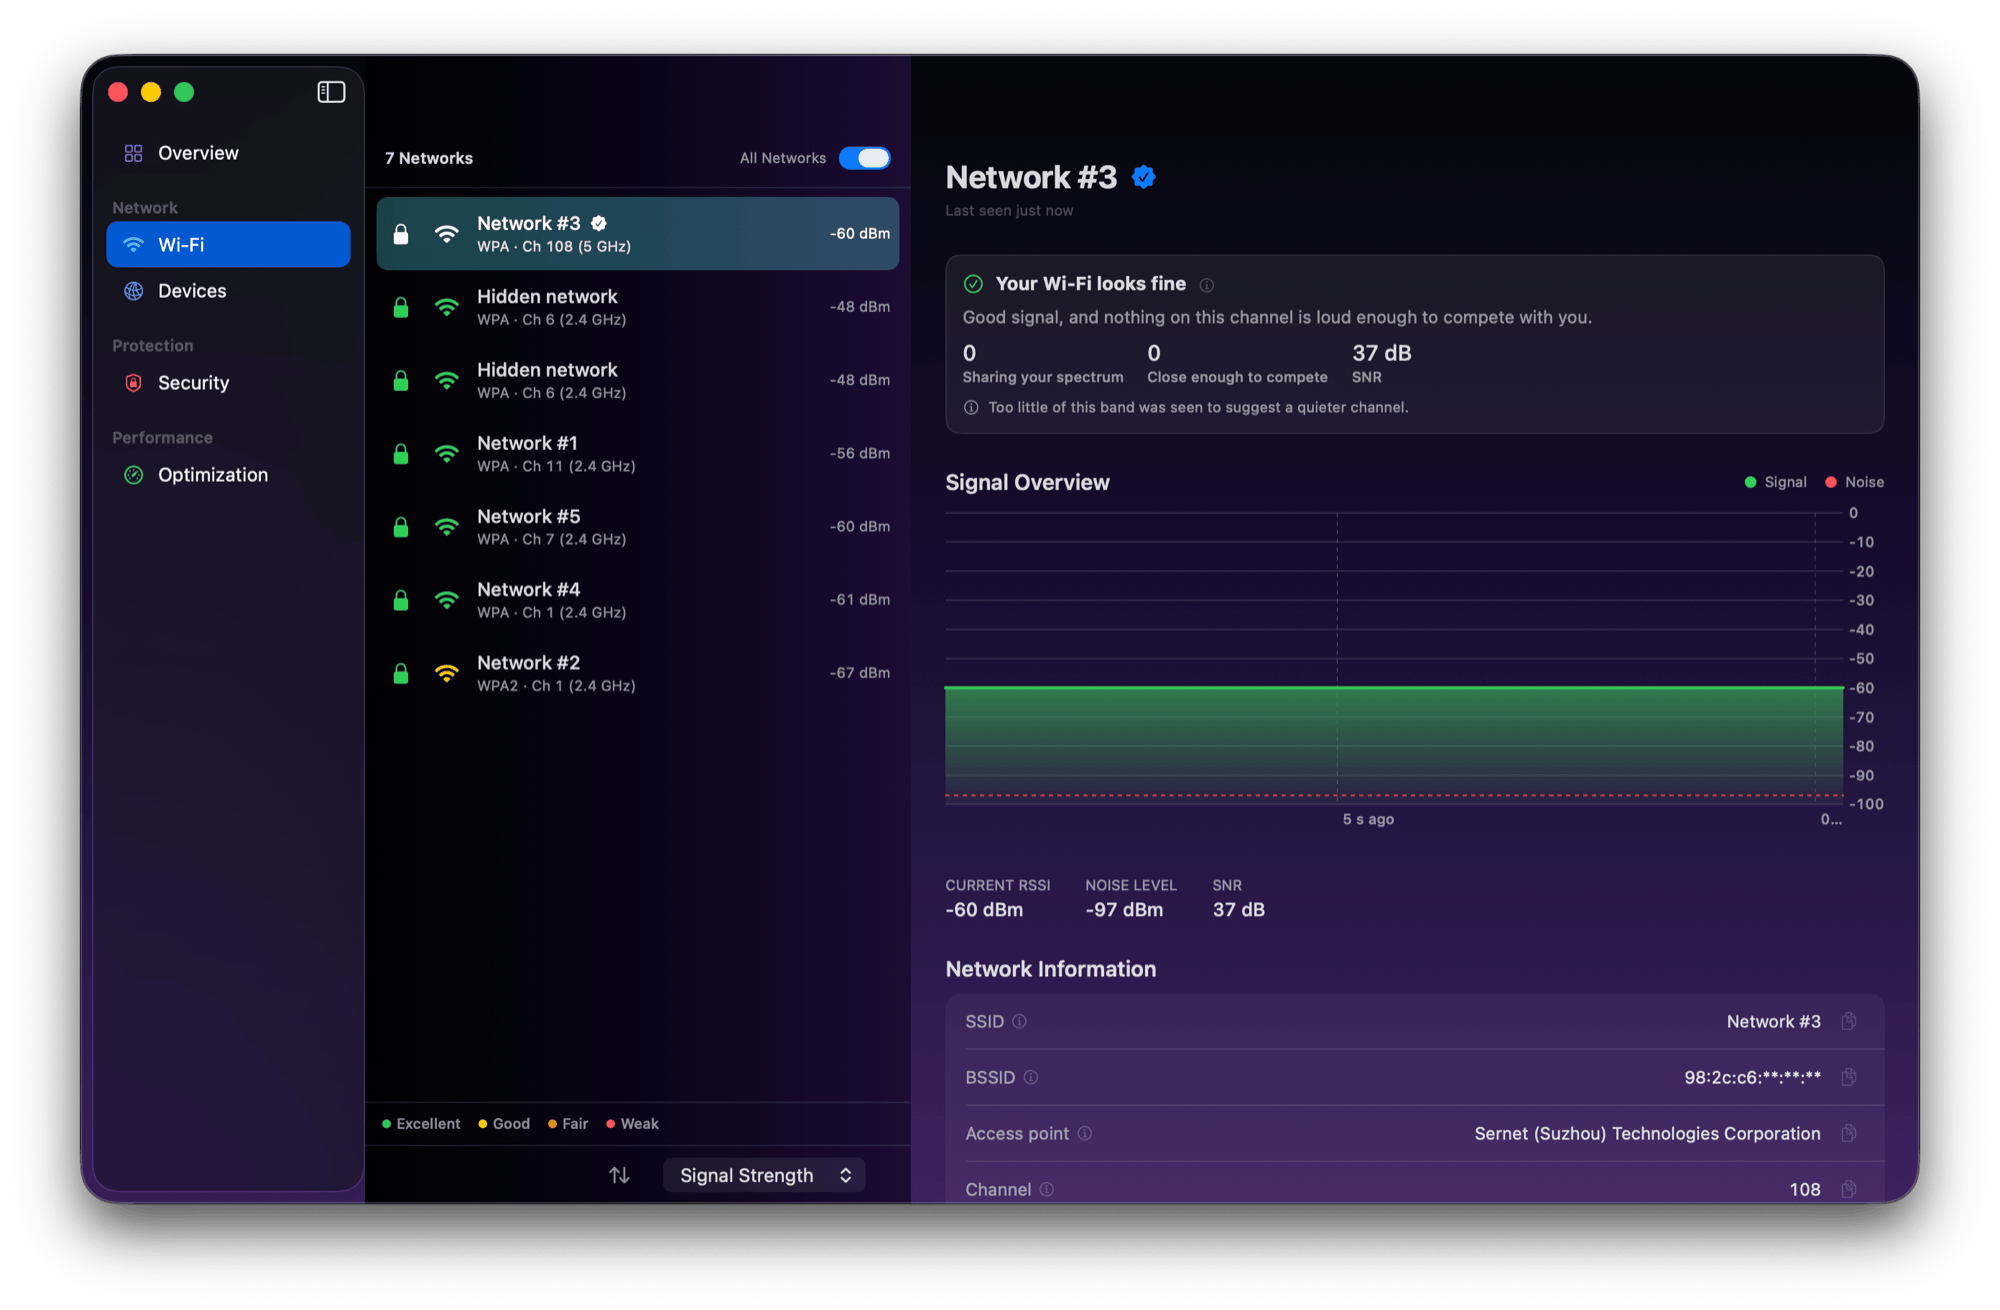
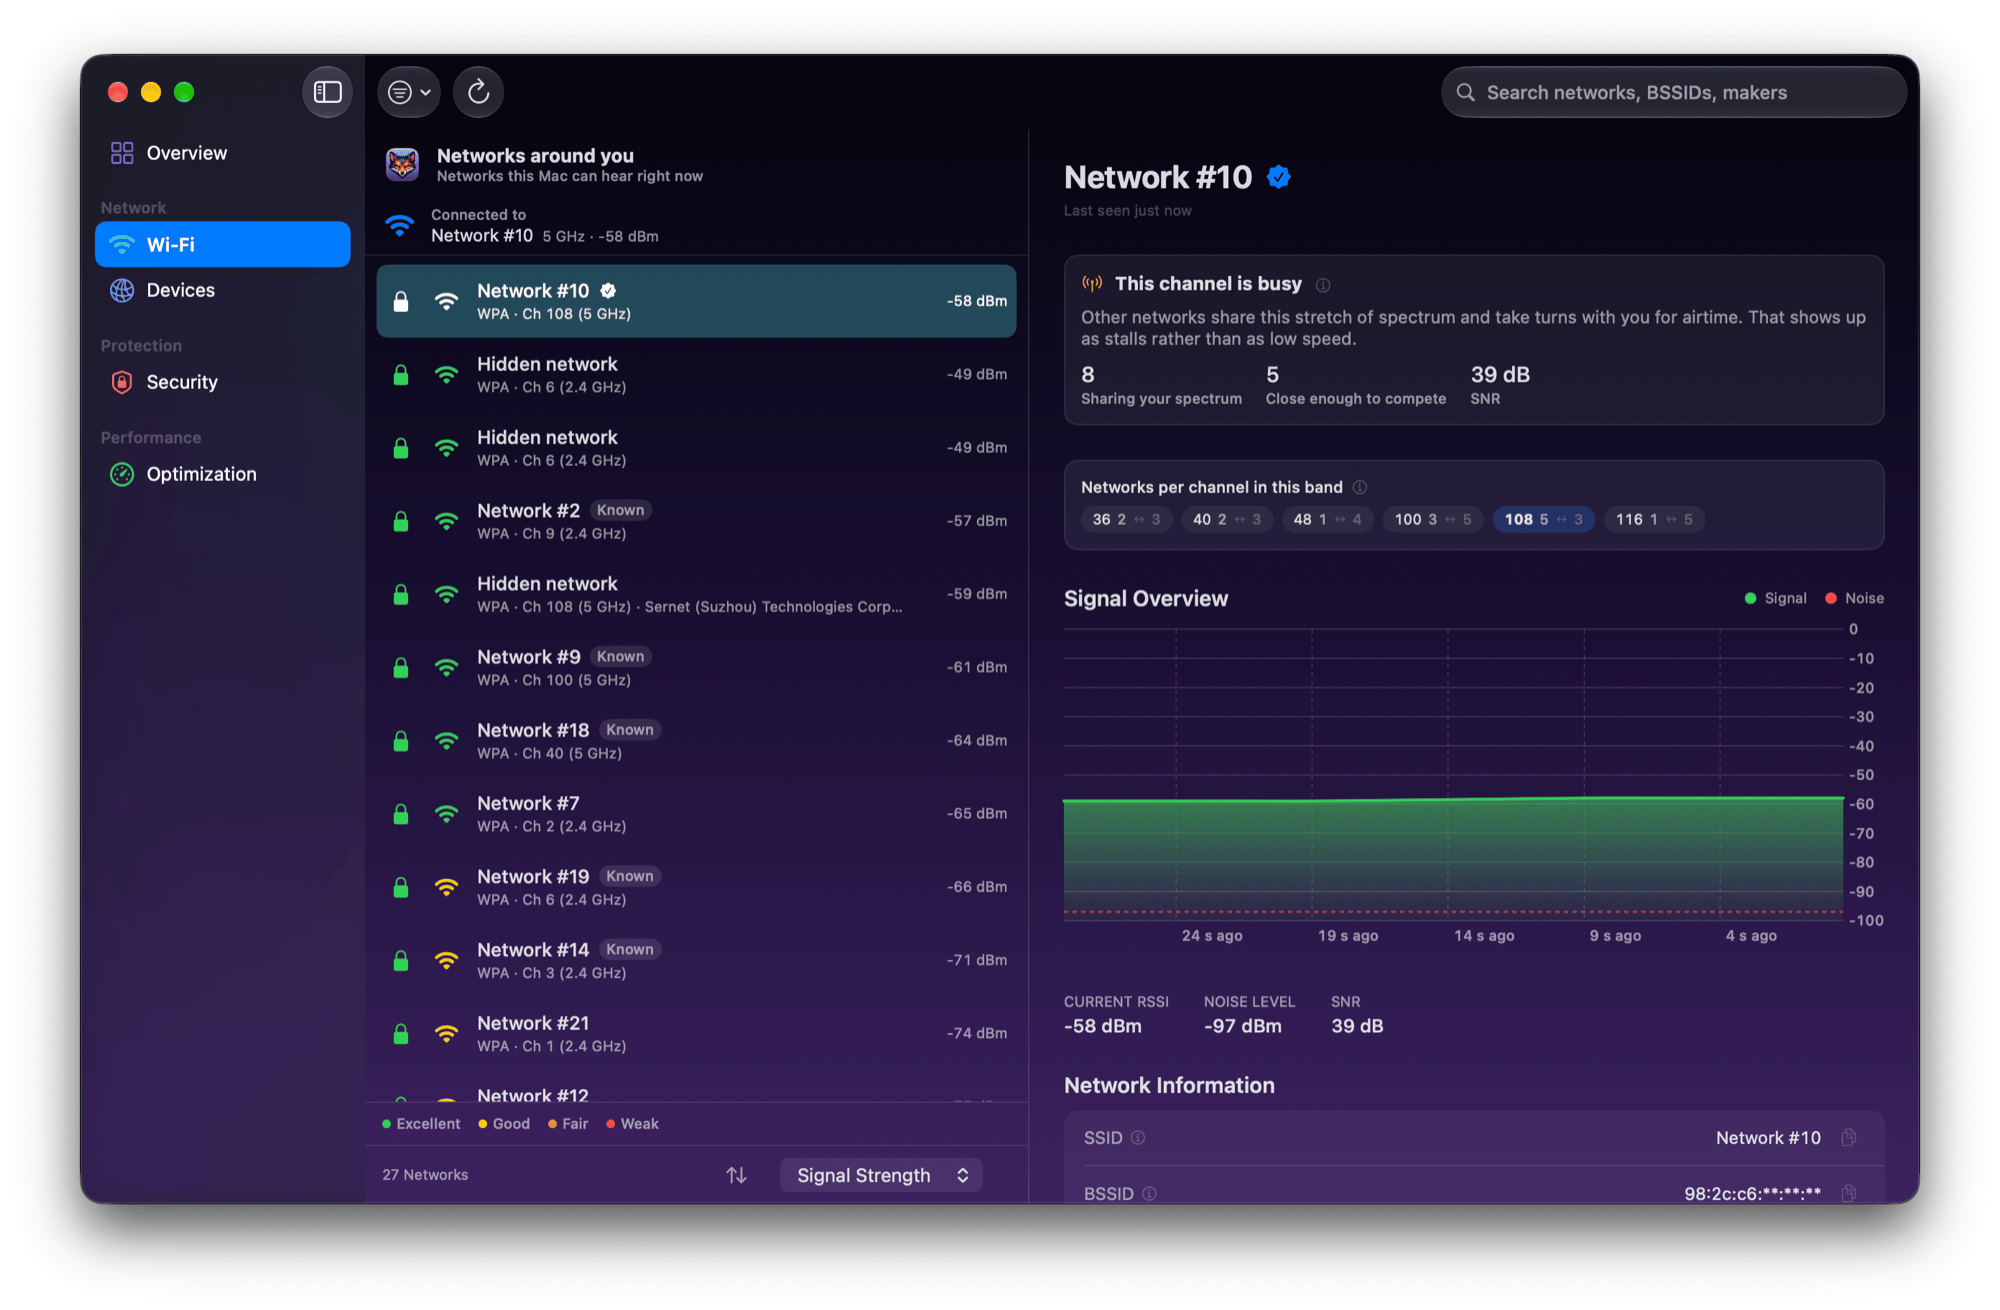
feat(sparkle): publish Netfox v0.29.0 to appcast

diff --git a/public/release-notes/0.29.0.html b/public/release-notes/0.29.0.html
@@ -1,0 +1,91 @@
+<!DOCTYPE html>
+<html lang="en">
+<head>
+<meta charset="utf-8">
+<meta name="viewport" content="width=device-width, initial-scale=1">
+<title>Netfox 0.29.0 — Release Notes</title>
+<style>
+  :root {
+    color-scheme: light dark;
+    --bg: #ffffff;
+    --fg: #1a1a1a;
+    --accent: #f76707;
+    --muted: #6b6b73;
+    --code-bg: #f4f4f5;
+    --border: rgba(0,0,0,0.12);
+  }
+  @media (prefers-color-scheme: dark) {
+    :root {
+      --bg: #1c1c1e;
+      --fg: #ececec;
+      --muted: #9c9ca5;
+      --code-bg: #2c2c2e;
+      --border: rgba(255,255,255,0.14);
+    }
+  }
+  * { box-sizing: border-box; }
+  body {
+    font: 14px/1.55 -apple-system, BlinkMacSystemFont, "SF Pro Text", "Helvetica Neue", sans-serif;
+    color: var(--fg);
+    background: var(--bg);
+    margin: 0 auto;
+    padding: 20px 24px 40px;
+    max-width: 720px;
+  }
+  header.page-header {
+    border-bottom: 1px solid var(--border);
+    padding-bottom: 14px;
+    margin-bottom: 22px;
+  }
+  header.page-header h1 { font-size: 1.7em; margin: 0 0 4px; letter-spacing: -0.02em; }
+  header.page-header .subtitle { color: var(--muted); margin: 0; font-size: 0.92em; }
+  h1, h2, h3, h4 { letter-spacing: -0.01em; margin: 1.5em 0 0.5em; }
+  h1 { font-size: 1.4em; }
+  h2 { font-size: 1.2em; }
+  h3 { font-size: 1em; }
+  a { color: var(--accent); }
+  hr { border: 0; border-top: 1px solid var(--border); margin: 22px 0; }
+  ul, ol { padding-left: 1.4em; }
+  li { margin: 4px 0; }
+  code {
+    font: 0.9em ui-monospace, "SF Mono", Menlo, Consolas, monospace;
+    background: var(--code-bg);
+    padding: 1px 5px;
+    border-radius: 3px;
+  }
+  pre {
+    background: var(--code-bg);
+    padding: 12px 14px;
+    border-radius: 6px;
+    overflow-x: auto;
+    font-size: 0.88em;
+  }
+  pre code { background: transparent; padding: 0; font-size: 1em; }
+  blockquote {
+    margin: 12px 0;
+    padding-left: 12px;
+    border-left: 3px solid var(--border);
+    color: var(--muted);
+  }
+  table { border-collapse: collapse; width: 100%; margin: 12px 0; font-size: 0.95em; }
+  th, td { border: 1px solid var(--border); padding: 6px 10px; text-align: left; }
+  th { background: var(--code-bg); }
+  img { max-width: 100%; }
+</style>
+</head>
+<body>
+<header class="page-header">
+  <h1>Netfox 0.29.0</h1>
+  <p class="subtitle">Release notes</p>
+</header>
+<p>Netfox 0.29.0 lets you act on what the Wi-Fi tool shows: join a network from it, and see when a network your Mac already knows is the better one where you are.</p>
+<h2>Wi-Fi</h2>
+<ul>
+<li><strong>Join a network from Netfox.</strong> Select it and choose Join…, or right-click it in the list. A sheet says which network your Mac will leave, warns you when a network is open, and asks for the password, which Netfox hands to macOS for that one join and never keeps. If the join fails, it says why in plain words: the password wasn't accepted, the network is out of range, or macOS didn't allow the change.</li>
+<li><strong>A stronger network, when it matters.</strong> When your Wi-Fi has a problem, the verdict card names a network your Mac already knows whose signal is clearly stronger where you are, with both readings and a Switch… button. Nothing is suggested while your Wi-Fi looks fine.</li>
+<li><strong>Known networks</strong> are marked in the list.</li>
+<li><strong>The list works like Devices.</strong> A filter in the toolbar (only your band, known, or no password), a search (⌘F) that finds a network by name, address, maker or security, a count that says what a filter leaves, arrow keys, a right-click menu, and a width you can drag. A header above the list names the network you're on.</li>
+<li><strong>⌘R scans for networks</strong> while Wi-Fi is in front; elsewhere it still refreshes the devices.</li>
+</ul>
+</body>
+</html>

diff --git a/config/index.ts b/config/index.ts
@@ -87,13 +87,13 @@ export default {
     defaultLanguage: 'en',
   },
   app: {
-    version: '0.28.1',
+    version: '0.29.0',
     // Publication date of `version`, UTC, written by release.sh next to the
     // version itself. It is the OFFLINE FALLBACK for the homepage release
     // strip: the live date and the release count come from the GitHub
     // releases API, and this is what the strip shows when that call is
     // rate-limited or down. Also the JSON-LD `dateModified`.
-    releaseDate: '2026-10-02',
+    releaseDate: '2026-10-03',
     // 15.6, not 15.0: it is the pbxproj MACOSX_DEPLOYMENT_TARGET and the
     // appcast's sparkle:minimumSystemVersion. Only StructuredData reads this,
     // so a wrong value here is invisible on the page and still published to
